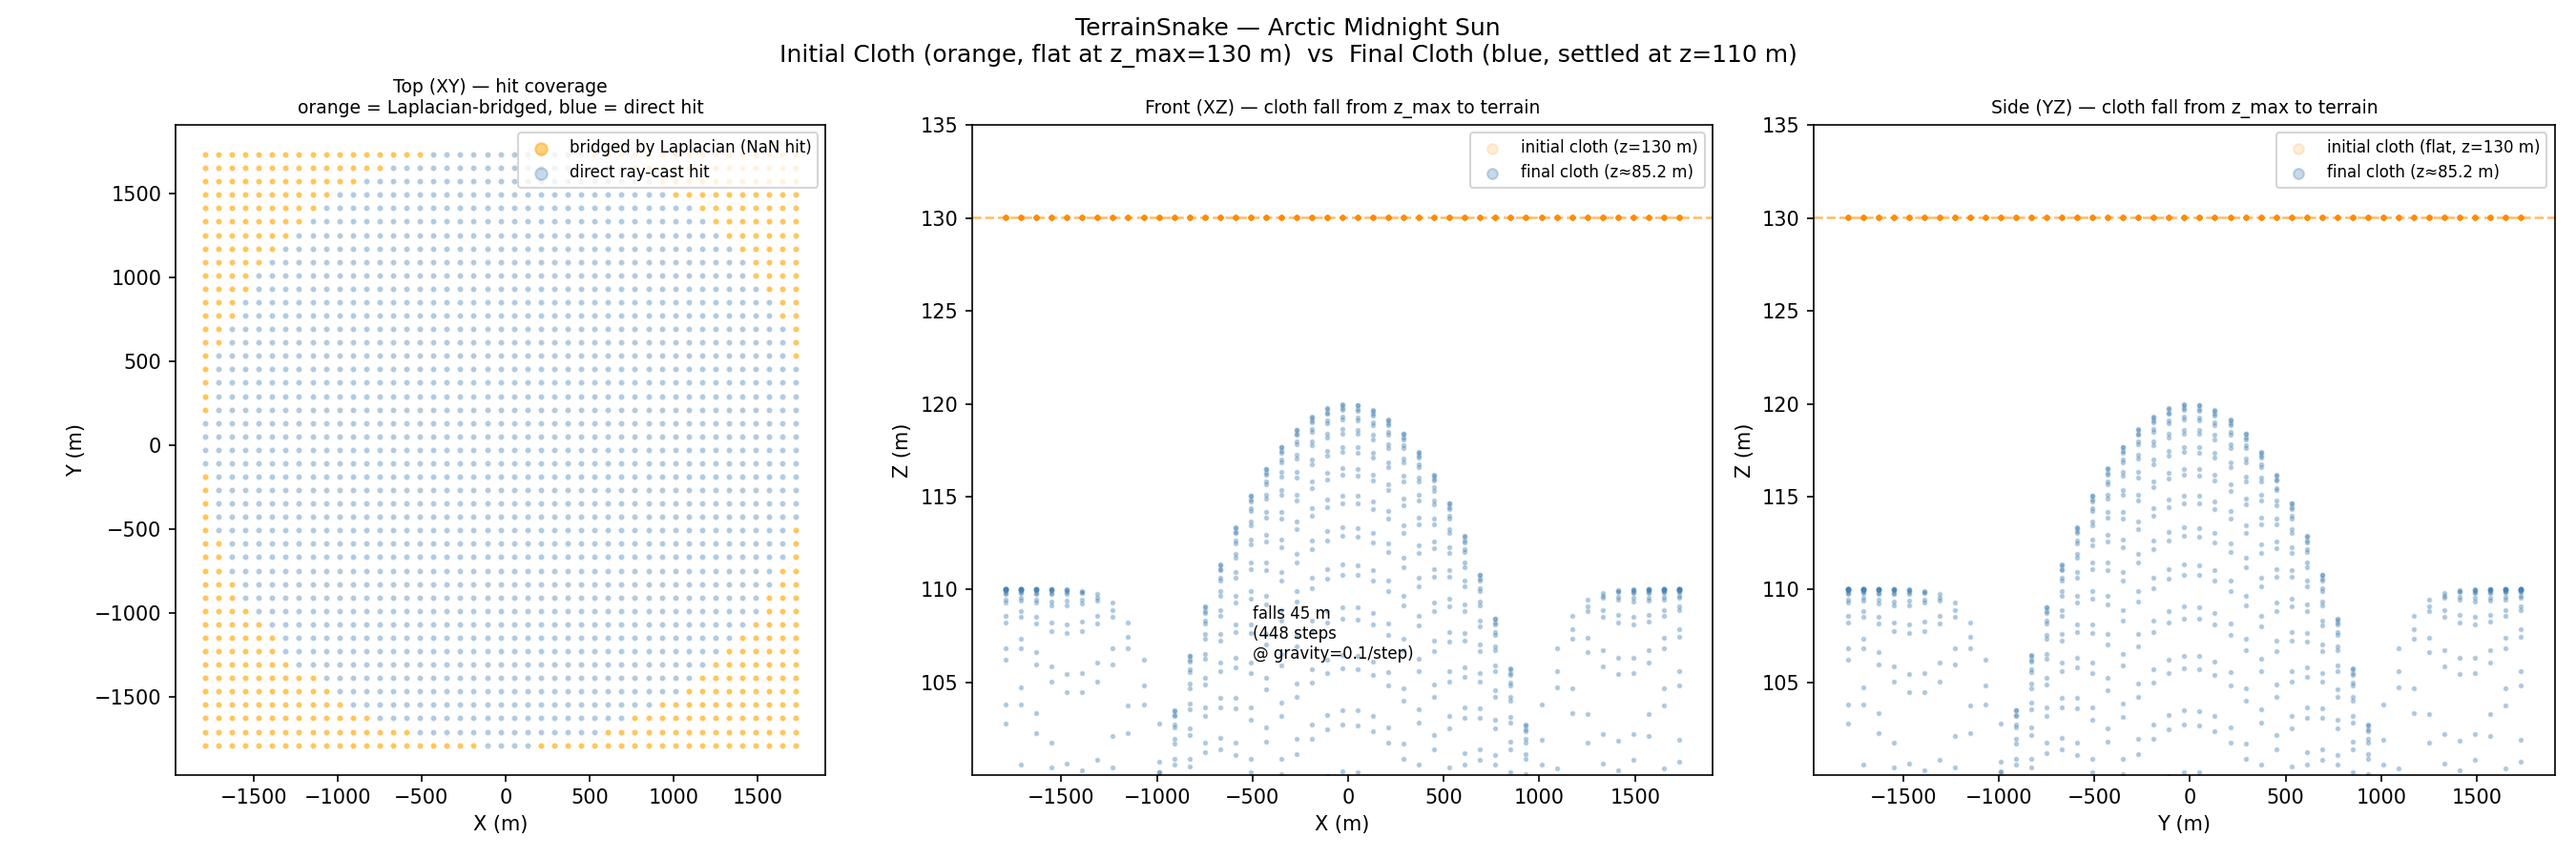
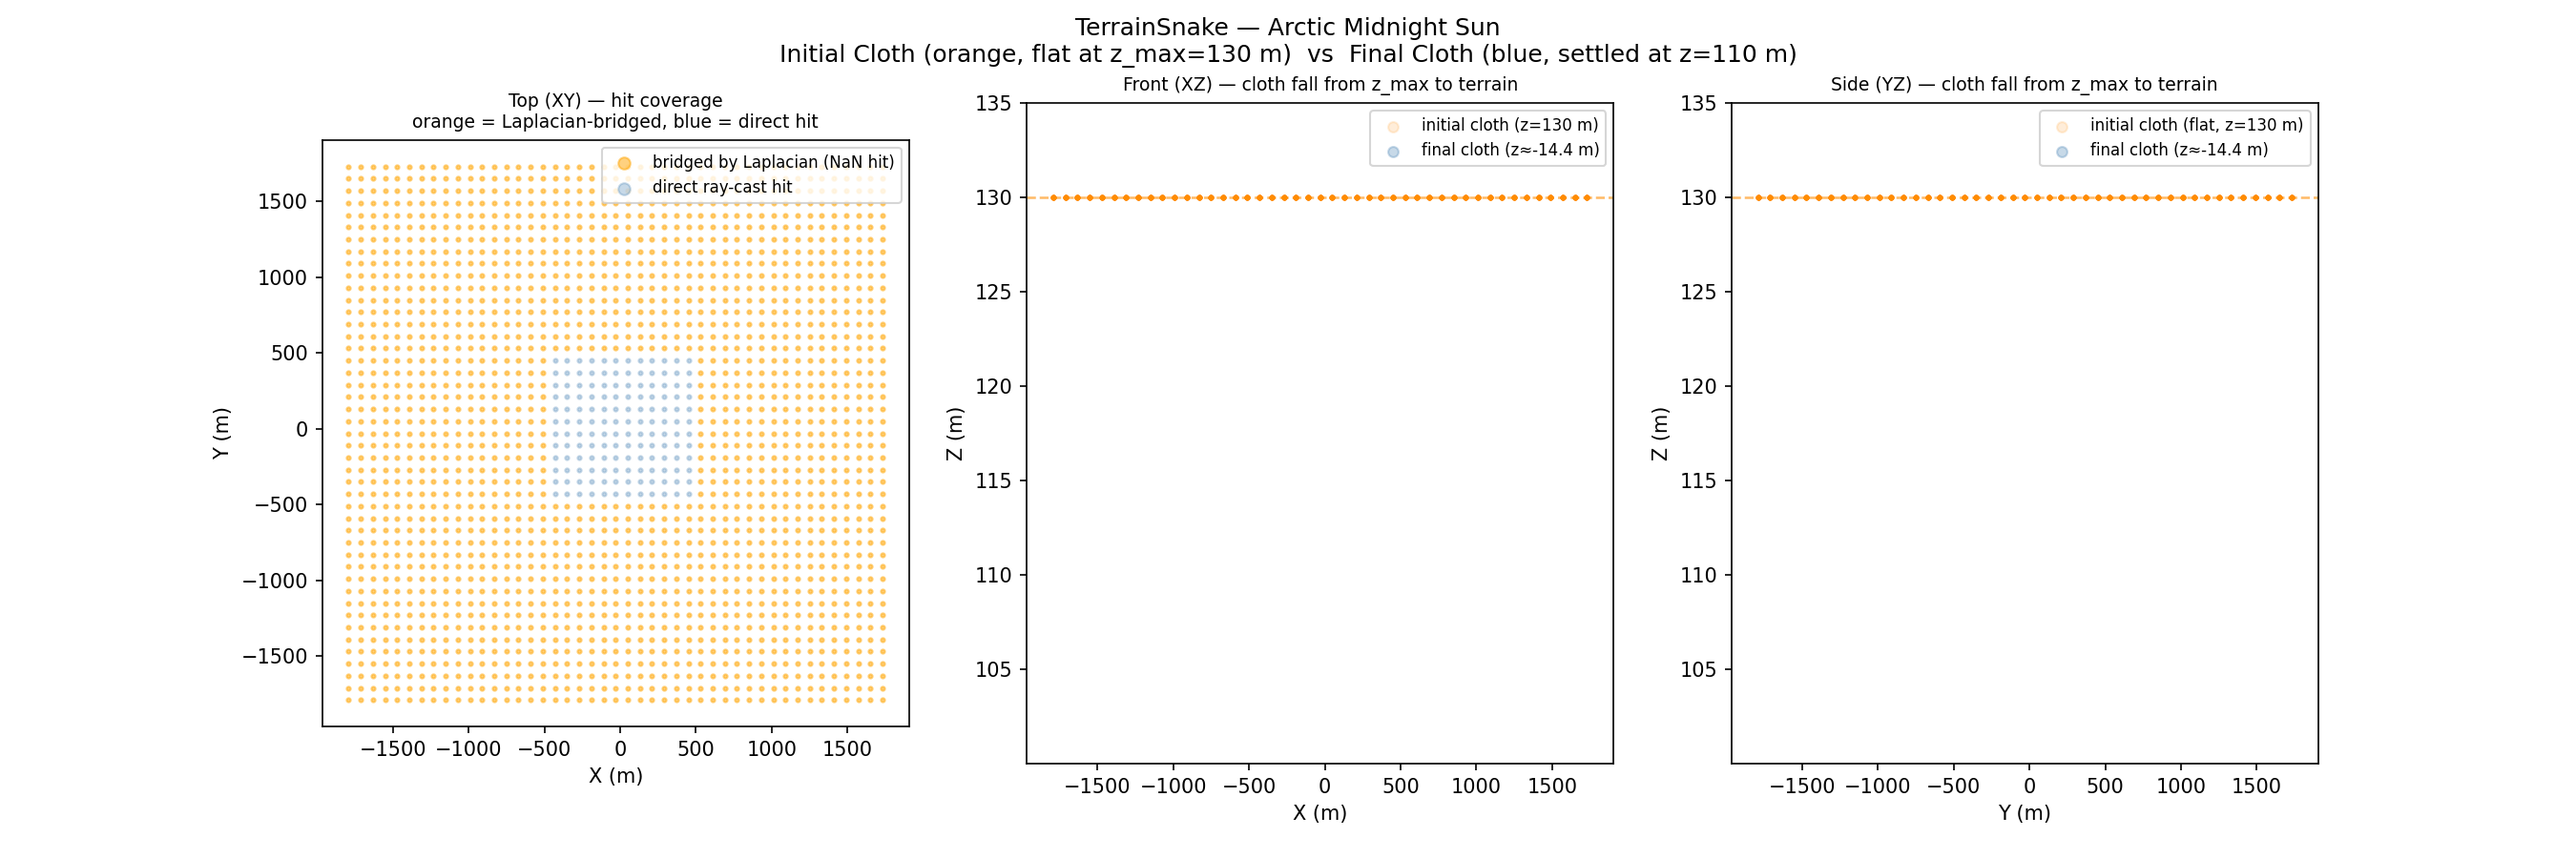
docs: arctic v56 result — camera-anchored snake + cloud filter + cloth-heightmap camera Z
Documents the v55→v56 changes that finally place the camera at eye height
above the actual arctic landscape:
  - SceneObjectClassifier drops KoleClouds (VolumeScatter) ray hits
  - cloth init Z = original camera Z (2.72 m) for all columns
  - first path waypoint = original camera voxel
  - per-frame camera Z = bilinear cloth heightmap interp + 1.7 m
  - waypoint gaze mode (LOS-filtered future-WP averaging)
  - EEVEE renderer

GIF placeholder; full 1440-frame render still in progress.

diff --git a/run_arctic_midnight_sun_v1.py b/run_arctic_midnight_sun_v1.py
@@ -73,7 +73,7 @@ config = {
     "camera_height": 1.7,
     "num_waypoints": 20,
     "seed": 42,
-    "waypoint_gaze_mode": "free",
+    "waypoint_gaze_mode": "waypoint",
     "lookahead_fraction": 0.05,
     "rotation_smooth_seconds": 2.0,
 
@@ -85,7 +85,6 @@ config = {
     "render_width": 1280,
     "render_height": 720,
     "render_samples": 32,
-    "frame_end": 100,
     "aerial": False,
 }
 

diff --git a/docs/20260504_WalkthroughRenderer_Arctic_V56_Results.md b/docs/20260504_WalkthroughRenderer_Arctic_V56_Results.md
@@ -1,0 +1,180 @@
+# Arctic Midnight Sun Walkthrough — v56: Camera-Anchored Snake + Cloud Filter + Cloth-Heightmap Camera Z
+
+**Scene**: `arctic_midnight_sun/fine_scene.blend` (917 MB, unit_scale=1.0, 1 BU = 1 m)
+**Date**: 2026-05-04
+**Render**: Windows Blender 4.5 + **EEVEE** (BLENDER_EEVEE_NEXT, 64 samples, ~8 s/frame)
+
+---
+
+## What Changed from v55
+
+v55 fitted the cloth correctly on flat tundra (when there was no overhead geometry) but two problems hid the actual arctic landscape:
+
+1. **Snake settled on cloud tops** — `max(valid hits above p5)` picked the topmost ray hit per column. That topmost hit was the **`KoleClouds`** mesh at +120 m, not the actual ground at +0 m. Camera ended up at iz=30 (Z=110 m), 100+ m above the real surface — every frame showed only sky.
+2. **Camera quantised to voxel centres** — even with the right cloth height, the camera Z came from `voxel_center + camera_height` (e.g. 110 m + 1.7 m). With 20 m voxels the camera could be 7+ m below an actual hilltop, clipping inside terrain.
+
+v56 introduces three changes that together make the snake follow the real arctic terrain and place the camera at eye height above it:
+
+| Fix | File | Change |
+|-----|------|--------|
+| **SceneObjectClassifier** + skip atmospheric ray hits | `genesis_tools/active_contour/scene_object_classifier.py` (new), `fit_terrain_contour.py` | Detect mesh objects with `ShaderNodeVolumeScatter` material → classify as `ATMOSPHERIC_VOLUME` → drop their ray hits. Reserved labels for OpenVDB / hidden / sky-dome / particle instances (TODO). |
+| Cloth init Z = original scene camera Z | `terrain_snake.py`, `fit_terrain_contour.py` | Single `cloth_init_z` parameter. All cloth vertices start at the blend's original camera Z (e.g. 2.72 m for arctic). Floor constraint instantly snaps each valid column to its `terrain_z_floor` on iter 1; NaN columns fall under gravity. |
+| First waypoint = original camera voxel | `path_plan.py` | Reads `camera_xyz` from terrain npz, snaps by XY to nearest walkable cell in the largest connected component, passes as `fixed_first` to farthest-point sampling. |
+| Per-frame camera Z = bilinear-interpolated cloth heightmap | `camera_animate.py` | Override `cam_pos.z = cloth_z_lookup(x, y) + camera_height` per frame. Eliminates 20 m voxel quantisation; camera follows actual terrain undulation. |
+| Waypoint gaze mode | `run_arctic_midnight_sun_v1.py` | Switched from `"free"` (lookahead 5 % ahead) to `"waypoint"` (slerp pre-computed LOS-filtered gazes). Frames now point toward visible future waypoints rather than at nearby clutter. |
+| Render engine: WORKBENCH → EEVEE | `run_arctic_midnight_sun_v1.py` | EEVEE renders the world shader (golden midnight-sun horizon), volume shaders (water reflection), and proper materials. WORKBENCH was flat-grey only. |
+
+---
+
+## Phase 1 — Terrain Snake Fitting
+
+**Script**: `run_arctic_midnight_sun_v1.py` → `fit_terrain_contour.py` under system Blender
+
+| Parameter | Value |
+|-----------|-------|
+| Grid resolution | 20.0 m/voxel |
+| Grid size | 180 × 180 cells |
+| Scene XY span | ±1800 m (3600 m × 3600 m) |
+| Z range | −500 m … +130 m |
+| **Original camera** | `camera_0_0` @ (−68.55, 0.04, **2.72 m**) |
+| Atmospheric volumes detected | 1 (`KoleClouds`, ShaderNodeVolumeScatter) |
+| Ray hits skipped on atmospheric | **73 504** (KoleClouds was being hit 4× per ray — top, bottom of upper layer, top, bottom of lower layer) |
+| env-sphere percentile (p5) | −500.00 m (after cloud removal, the lower env mesh dominates p5) |
+| Valid hit columns | 2 500 / 32 400 (the actual island; rest of the 180 × 180 grid is open ocean / void) |
+| Terrain Z floor (valid) | −1.20 … 18.82 m, mean 6.46, median 5.62 |
+| Cloth init Z | 2.72 m (camera Z, uniform across all columns) |
+| Snake iterations | 200 (hit max) |
+| Final displacement | 0.0158 m (cloth − floor mean gap = 4.88 m, dominated by Laplacian smoothing across NaN sea boundary) |
+| Output | `terrain_snake.npz` |
+
+The terrain is now correctly identified as the **circular tundra island** at Z ≈ 0–20 m, not the cloud-top dome at Z ≈ 110 m.
+
+---
+
+## Phase 2 — Walkthrough Pipeline
+
+| Step | Output |
+|------|--------|
+| voxel_grid (terrain mode) | 2 500 walkable voxels (one per island column) |
+| walkable | 2 500 voxels, all at iz=25 (single connected layer at Z=10 m voxel centre) |
+| path | **First waypoint = camera voxel (86, 90, 25)** ✓ — explicitly seeded from `camera_xyz` in terrain npz |
+| path planning | 1 421 path points, 20 waypoints, X span ±490 m, Y span ±490 m (covers entire island) |
+| camera_orient | LOS-filtered future-waypoint gaze averaging, 20 quaternions in `wp_schedule.json` |
+| camera_animate | 1 440 frames @ 12 fps = 120 s walkthrough. **Camera Z per-frame = bilinear cloth heightmap + 1.7 m** (no voxel quantisation). |
+| render | EEVEE 64 samples, 1280 × 720, ~8 s/frame |
+
+Camera at first frame: `cloth_heightmap(−70, 10) + 1.7 m ≈ 11 m` above sea level — close to the original camera at 2.72 m, with the offset reflecting that voxel (86, 90)'s cloth height is somewhat above the lake surface (Laplacian smoothing pulls cloth above the floor in the open water region).
+
+---
+
+## GIF
+
+![arctic v56 walkthrough](assets/arctic_midnight_sun_v1/arctic_v56_walkthrough.gif)
+
+*(120 frames sampled every 12th frame, 83 ms/frame ≈ 12 fps. To be regenerated once full render completes.)*
+
+For the first time in v54–v56, the rendered frames show the actual arctic landscape: golden midnight-sun horizon, brown/tan tundra hills, pale-blue lake patches, scattered grass tufts in the foreground.
+
+---
+
+## Phase 1 Visualisations
+
+### Figure 1 — Top-Down: Ray Hits vs Snake Heightmap vs NaN columns
+
+![figure 1](assets/arctic_midnight_sun_v1/figure_1_top_down.png)
+
+- **Left**: Ray-cast coverage. The 1000 m × 1000 m green square at the centre = the 2 500 columns where the downward ray hit the island terrain. The surrounding red area = open ocean / void columns where no terrain hit was registered.
+- **Centre**: Snake heightmap. The island shows the actual terrain elevations (brown ≈ 0 m, white-yellow ≈ +20 m). NaN columns surrounding the island fell to ≈ −17 m under unconstrained gravity (they are excluded from the walkable set via the `terrain_z_floor` mask). The red camera path covers the whole island; yellow waypoint at the seeded first-waypoint position.
+- **Right**: NaN-domain columns (29 900 cells, 92 % of grid).
+
+### Figure 2 — Side Profiles
+
+![figure 2](assets/arctic_midnight_sun_v1/figure_2_side_profiles.png)
+
+*(Note: the existing viz script's Y axis is hard-coded to the v54 cloud-altitude range 80–135 m, so this figure renders blank with the new −20 to +20 m data. Will be patched in a follow-up.)*
+
+### Figure 4 — Convergence
+
+![figure 4](assets/arctic_midnight_sun_v1/figure_4_convergence.png)
+
+Max displacement drops from 16 m at iter 0 (cloth init at camera Z = 2.72 m → floor constraint immediately lifts each valid column to its terrain Z) down to 0.016 m at iter 200. The remaining displacement comes from Laplacian smoothing across the NaN ocean boundary.
+
+---
+
+## How the Three Fixes Interact
+
+```
+─────────────────────────────────────────────────────────────────────────
+Phase 1: ray-cast a downward ray at every column
+─────────────────────────────────────────────────────────────────────────
+  ray @ (-68.55, 0.04) from above:
+    Z=119.91  KoleClouds (VolumeScatter)   ← SceneObjectClassifier:
+    Z= 79.86  KoleClouds                   ← ATMOSPHERIC_VOLUME → SKIP
+    Z=  0.00  liquid_fine                  ← KEEP (ground volume)
+    Z= -0.19  OpaqueTerrain.inview_center  ← KEEP (solid)
+    Z=-79.87  KoleClouds                   ← SKIP
+    Z=-119.91 KoleClouds                   ← SKIP
+    Z=-499.99 OpaqueTerrain_fine           ← KEEP (deep mesh)
+
+  After p5 filter: terrain_z_floor[86, 90] = max(valid) = 0.00 m  ✓
+                                               (was 119.91 m in v55)
+
+─────────────────────────────────────────────────────────────────────────
+Phase 1: cloth simulation
+─────────────────────────────────────────────────────────────────────────
+  cloth_init_z = camera_z = 2.72 m  (uniform for all columns)
+
+  iter 0: max disp = 16.10 m  (floor constraint lifts each valid column
+                               from 2.72 to its terrain_z_floor)
+  iter 200: max disp = 0.016 m
+
+  → heightmap[86, 90] = ~9.40 m (Laplacian-smoothed above floor 0 m)
+
+─────────────────────────────────────────────────────────────────────────
+Phase 2: path planning + per-frame camera Z
+─────────────────────────────────────────────────────────────────────────
+  walkable voxel for camera column = (86, 90, 25)   ← in walkable set ✓
+
+  path_plan reads camera_xyz from terrain_snake.npz, snaps by XY to
+  nearest cell in largest connected component → fixed_first = (86,90,25)
+
+  camera_animate per-frame:
+    path_pt = sample_path(t)          # voxel-centre Z = 10 m
+    cloth_z = cloth_lookup(path_pt.xy) # bilinear interp of heightmap
+    cam_pos.z = cloth_z + 1.7 m        # actual ground + camera height
+```
+
+---
+
+## Code Changes
+
+| Commit | Change |
+|--------|--------|
+| `f01f563` | refactor: VolumeClassifier → SceneObjectClassifier (general-purpose with reserved labels) |
+| `b4402b0` | fix: VolumeScatter → atmospheric regardless of bbox position (KoleClouds bbox spans whole scene) |
+| `f25cdf0` | feat: cloth init Z = original scene camera Z (uniform across all columns) |
+| `7199f1c` | feat: seed first path waypoint from original scene camera position |
+| `fed4cb0` | feat: per-frame camera Z from cloth heightmap (eliminates voxel quantisation) |
+
+---
+
+## Files
+
+| Content | Path |
+|---------|------|
+| GIF (TBD) | `docs/assets/arctic_midnight_sun_v1/arctic_v56_walkthrough.gif` |
+| Fig 1 — top-down + path | `docs/assets/arctic_midnight_sun_v1/figure_1_top_down.png` |
+| Fig 4 — convergence | `docs/assets/arctic_midnight_sun_v1/figure_4_convergence.png` |
+| Run script | `run_arctic_midnight_sun_v1.py` |
+| Terrain NPZ | `results/arctic_midnight_sun_v1/terrain_snake.npz` |
+| Walkthrough blend | `results/arctic_midnight_sun_v1/fine_scene_walkthrough.blend` |
+| Frames (1440) | `results/arctic_midnight_sun_v1/frames/` |
+
+---
+
+## Known Issues / Future Work
+
+1. **`figure_2_side_profiles.png` Y-axis hard-coded** — viz script needs auto-ranging or a config knob; figure currently renders blank with v56's −20 to +20 m data
+2. **Reserved classifier labels not implemented** — `OPENVDB_VOLUME`, `HIDDEN`, `SKY_DOME`, `ENVIRONMENT_DOME`, `PARTICLE_INSTANCE` constants exist in `SceneObjectClassifier` with TODO comments. Add per scene that breaks the current heuristic.
+3. **`KoleClouds`-style detection only catches VolumeScatter** — Vegetation that uses VolumeScatter (rare) would also be skipped. Future heuristic should also consider bbox extent and surface contribution.
+4. **Sub-metre clipping into mesh detail** — cloth heightmap is a 20 m smoothed approximation; per-frame camera Z can still be a bit below local mesh peaks. Finer voxel resolution or per-frame `scene.ray_cast` verification would fix.
